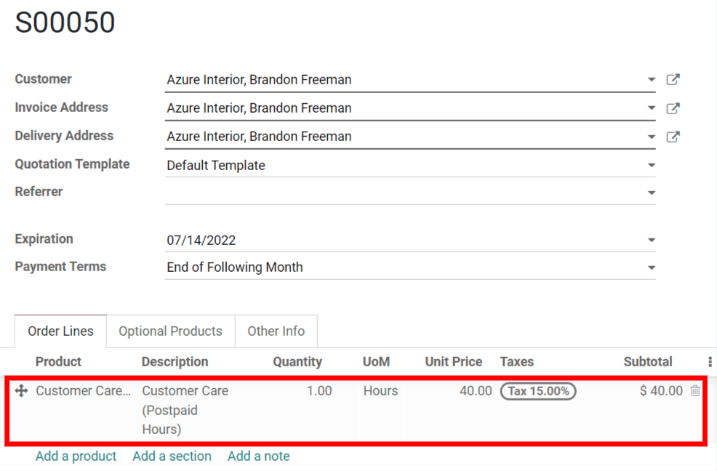
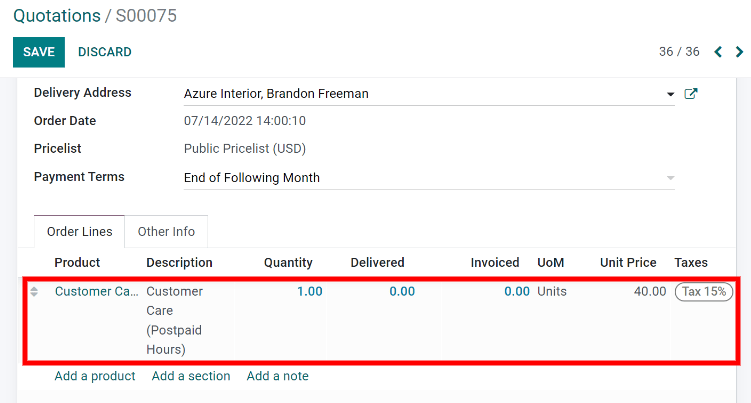
[IMP] helpdesk: update field names and screenshots
In Odoo v15, the field names for "Timesheet on Ticket" and "Time
Reinvoicing" changed to "Timesheets" and "Time Billing", respectively.
The "Tickets" button on the project card is also no longer available in
Odoo v15. Updated the RST file to reflect these changes, and also
updated screenshots to match.

Fixes PR #2094
Closes Odoo Task 2870115

closes odoo/documentation#2576

X-original-commit: 30a38d23d0f4052a2400d1713a9478e7f014e54f

diff --git a/content/applications/services/helpdesk/timesheet_and_invoice/reinvoice_from_project.rst b/content/applications/services/helpdesk/timesheet_and_invoice/reinvoice_from_project.rst
@@ -2,8 +2,8 @@
 Invoice Time Spent on Tickets (Postpaid Support Services)
 =========================================================
 
-The :guilabel:`Timesheet on Ticket` integration provides more control and transparency over how
-clients are charged, and what they're specifically billed for.
+The :guilabel:`Timesheets` integration provides more control and transparency over how clients are
+charged, and what they're specifically billed for.
 
 In Odoo, the Helpdesk agent can use the ticket to record timesheets. Once a ticket is solved, the
 client can be billed for the time spent on the ticket. Odoo will pull from the ticket's timesheet
@@ -12,15 +12,15 @@ to accurately bill the client.
 Configuration
 =============
 
-To turn on the :guilabel:`Timesheet on Ticket` feature, go to :menuselection:`Helpdesk -->
-Configuration --> Helpdesk Teams`, select a Helpdesk team, and then, click :guilabel:`Edit`. Next,
-enable the options :guilabel:`Timesheet on Ticket` and :guilabel:`Time Reinvoicing`. Then, click
-:guilabel:`Save` to apply these changes to the Helpdesk team settings.
+To turn on the :guilabel:`Timesheets` feature, go to :menuselection:`Helpdesk --> Configuration
+--> Helpdesk Teams`, select a Helpdesk team, and then, click :guilabel:`Edit`. Next, enable the
+options :guilabel:`Timesheets` and :guilabel:`Time Billing`. Then, click :guilabel:`Save` to apply
+these changes to the Helpdesk team settings.
 
-Once the :guilabel:`Timesheet on Ticket` feature is enabled, a :guilabel:`Project` drop-down option
-will appear below :guilabel:`Timesheet on Ticket`. The :guilabel:`Project` drop-down option will
-automatically be set to a Project that Odoo created for the Helpdesk team. The tickets' timesheets
-will be stored in the selected Project.
+Once the :guilabel:`Timesheets` feature is enabled, a :guilabel:`Project` drop-down option will
+appear below :guilabel:`Timesheets`. The :guilabel:`Project` drop-down option will automatically
+be set to a project that Odoo created for the Helpdesk team. The tickets' timesheets
+will be stored in the selected project.
 
 Create a sales order
 ====================
@@ -34,9 +34,9 @@ If creating a new product from the sales order form, first give the product a na
 the :guilabel:`Product` column. Then, click :guilabel:`Create and edit`.
 
 First, in the :guilabel:`General Information` tab, set the :guilabel:`Product Type` to
-:guilabel:`Service` and the :guilabel:`Sales Price` to the Helpdesk agent's service rate. Then, in
-the :guilabel:`Sales` tab, set the :guilabel:`Service Invoicing Policy` to :guilabel:`Timesheets on
-tasks`. Finally, click :guilabel:`Save` to create the new product and add it to the quotation.
+:guilabel:`Service` and the :guilabel:`Sales Price` to the Helpdesk agent's service rate. Then, set
+the :guilabel:`Invoicing Policy` to :guilabel:`Based on Timesheets`. Finally, click
+:guilabel:`Save` to create the new product and add it to the quotation.
 
 Once the product is added, click :guilabel:`Confirm` to turn the quotation into a sales order.
 
@@ -47,10 +47,10 @@ Once the product is added, click :guilabel:`Confirm` to turn the quotation into 
 Record a timesheet
 ==================
 
-To record a timesheet, jump back to the Helpdesk ticket by going to the Helpdesk dashboard and
-clicking :guilabel:`Tickets` on the team's card (or by going to the Projects dashboard and clicking
-:guilabel:`Tickets` on the project card). Then, click :guilabel:`Edit` and use the
-:guilabel:`Timesheets` tab to record the time spent on the ticket.
+To record a timesheet, jump back to the Helpdesk ticket by going to the :guilabel:`Helpdesk`
+dashboard, clicking :guilabel:`Tickets` on the team's card, and locating the correct ticket. Then,
+click :guilabel:`Edit` and use the :guilabel:`Timesheets` tab to record the time spent on the
+ticket.
 
 .. image:: reinvoice_from_project/record-timesheet-ticket.png
    :align: center
@@ -63,16 +63,19 @@ clicking :guilabel:`Tickets` on the team's card (or by going to the Projects das
 Link the Helpdesk ticket to the SO
 ==================================
 
-Once a timesheet is recorded, the :guilabel:`Sales Order Item` field will appear on the ticket
-form. To link the :abbr:`SO (Sales Order)` to the ticket, start on the ticket form and click
-:guilabel:`Edit`. Next, select the :abbr:`SO (Sales Order)` that was created earlier from the
-drop-down menu. Odoo will automatically filter the sales orders to only show sales orders that are
-connected to the ticket's customer. Lastly, click :guilabel:`Save` to connect the ticket and the
-:abbr:`SO (Sales Order)`.
+To link the :guilabel:`Sales Order` to the ticket, start on the ticket form and click
+:guilabel:`Edit`. Next, select the :guilabel:`Sales Order` that was created earlier from the
+:guilabel:`Sales Order Item` drop-down menu. Odoo will automatically filter the options to only
+show sales orders that are connected to the ticket's customer. Lastly, click :guilabel:`Save` to
+connect the ticket and the :guilabel:`Sales Order Item`.
 
 .. image:: reinvoice_from_project/link-soi-to-ticket.png
    :align: center
    :alt: Link the SO item to the ticket.
+
+.. tip::
+   The :guilabel:`Sales Order Item` can be connected to the ticket before or after any timesheets
+   are recorded, the order doesn't matter.
 
 Modify billing rates
 ====================
@@ -90,12 +93,11 @@ Create the invoice
 ==================
 
 When the Helpdesk ticket is completed and the client is ready to be billed for time, begin by
-clicking the :guilabel:`Sales Order` smart button on the ticket form to navigate to the :abbr:`SO
-(Sales Order)`. The :guilabel:`Delivered` column should match the number of hours recorded on the
-ticket's timesheet. After checking and filling out the relevant information, click
-:guilabel:`Create Invoice` to bill the client for the time spent on the ticket. Odoo will
-automatically generate an invoice to send to the client and the Helpdesk ticket can officially be
-closed.
+clicking the :guilabel:`Sales Order` smart button on the ticket form to navigate to the sales
+order. The :guilabel:`Delivered` column should match the number of hours recorded on the ticket's
+timesheet. After checking and filling out the relevant information, click :guilabel:`Create
+Invoice` to bill the client for the time spent on the ticket. Odoo will automatically generate an
+invoice to send to the client and the Helpdesk ticket can officially be closed.
 
 .. seealso::
    - :doc:`invoice_time`
